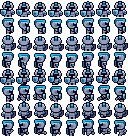
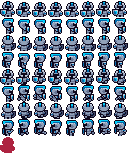
player can shoot

diff --git a/frontend/GAME/index.js b/frontend/GAME/index.js
@@ -38,6 +38,7 @@ const gameObjects = {
 };
 
 const bullets = [];
+const playerBullets = []; // Array separado para las balas del jugador
 
 // Clase base para todos los objetos del juego
 class GameObject {
@@ -250,7 +251,9 @@ const sources = {
     map: "img/Level Map.png",
     player: "img/PlayerChris.png",
     gameOver: "img/UI/GameOverScreen.png",
-    health: "img/playerLives.png"
+    health: "img/playerLives.png",
+    bullet: "img/bullet.png",
+    playerBullet: "img/playerBullet.png"
 };
 
 //----------------------------------------
@@ -495,6 +498,45 @@ function Update() {
             boundary.draw();
         });
 
+        // Actualizar y dibujar balas del jugador (fuera del bloque isPlayerInBattle)
+        for (let i = playerBullets.length - 1; i >= 0; i--) {
+            playerBullets[i].update();
+            
+            // Verificar colisiones con boundaries
+            let bulletHitBoundary = false;
+            
+            // Verificar colisiones con paredes normales
+            for (const boundary of gameObjects.boundaries) {
+                if (bulletCollision(playerBullets[i], boundary)) {
+                    bulletHitBoundary = true;
+                    break;
+                }
+            }
+            
+            // Verificar colisiones con puertas
+            if (!bulletHitBoundary && isPlayerInBattle) {
+                for (const door of gameObjects.doorBoundaries) {
+                    if (bulletCollision(playerBullets[i], door)) {
+                        bulletHitBoundary = true;
+                        break;
+                    }
+                }
+            }
+            
+            // Si la bala golpeó algo o está muy lejos, eliminarla
+            const distanceFromPlayer = Math.hypot(
+                playerBullets[i].x - playerX,
+                playerBullets[i].y - playerY
+            );
+            
+            if (bulletHitBoundary || distanceFromPlayer > 500) {
+                playerBullets.splice(i, 1);
+                continue;
+            }
+            
+            playerBullets[i].draw(ctx);
+        }
+
         // Solo dibujar las puertas y caballeros si el jugador está en batalla
         if (isPlayerInBattle) {
             gameObjects.doorBoundaries.forEach((doorBoundary) => {
@@ -507,14 +549,14 @@ function Update() {
                 knight.draw(ctx);
             });
             
-            // Actualizar y dibujar balas
+            // Actualizar y dibujar balas enemigas
             for (let i = bullets.length - 1; i >= 0; i--) {
                 bullets[i].update();
                 
                 // Verificar si la bala golpea al jugador
                 if (bulletHitPlayer(bullets[i])) {
                     playerHealth.takeDamage(1);
-                    playerDamageFrames = 2; // Activar frames de daño
+                    playerDamageFrames = 10; // Cambiar a 10 frames de daño
                     bullets.splice(i, 1);
                     continue;
                 }
@@ -562,16 +604,33 @@ function Update() {
         isMoving = false;
         if (keys.a && canMove.left) {
             isMoving = true;
-            lastDirection = 'left';
         } else if (keys.d && canMove.right) {
             isMoving = true;
-            lastDirection = 'right';
         } else if (keys.w && canMove.up) {
             isMoving = true;
-            lastDirection = 'up';
         } else if (keys.s && canMove.down) {
             isMoving = true;
-            lastDirection = 'down';
+        }
+
+        // Calcular la dirección basada en el mouse
+        if (!isGameOver) {
+            const dx = mouseX - playerX;
+            const dy = mouseY - playerY;
+            
+            // Calcular el ángulo entre el jugador y el mouse
+            const angle = Math.atan2(dy, dx);
+            const degrees = angle * (180 / Math.PI);
+            
+            // Determinar la dirección basada en el ángulo
+            if (degrees >= -45 && degrees < 45) {
+                lastMouseDirection = 'right';
+            } else if (degrees >= 45 && degrees < 135) {
+                lastMouseDirection = 'down';
+            } else if (degrees >= -135 && degrees < -45) {
+                lastMouseDirection = 'up';
+            } else {
+                lastMouseDirection = 'left';
+            }
         }
 
         // Actualizar frame counter y current frame
@@ -588,13 +647,12 @@ function Update() {
         // Determinar fila y columna del sprite
         let row, column;
         if (playerDamageFrames > 0) {
-            // Si está en frames de daño, usar la novena fila (índice 8)
             row = 8;
-            column = 1; // Frame estático
-            playerDamageFrames--; // Decrementar contador
+            column = 0;
+            playerDamageFrames--;
         } else {
-            // Animación normal
-            switch (lastDirection) {
+            // Usar la dirección del mouse en lugar de lastDirection
+            switch (lastMouseDirection) {
                 case 'left':
                     row = 6;
                     break;
@@ -898,10 +956,6 @@ class BlueKnight extends GameObject {
         // Añadir variables para el disparo
         this.shootTimer = 0; // Frames antes de poder disparar
         this.shootInterval = 70; // Disparar cada 26 frames
-        
-        // Cargar imagen de la bala
-        this.bulletImage = new Image();
-        this.bulletImage.src = 'img/bullet.png';
     }
     
     update() {
@@ -1064,17 +1118,16 @@ class BlueKnight extends GameObject {
         const enemyWorldX = this.x - background.position.x;
         const enemyWorldY = this.y - background.position.y;
         
-        // Calcular dirección hacia el jugador
         const dx = playerWorldX - enemyWorldX;
         const dy = playerWorldY - enemyWorldY;
         const angle = Math.atan2(dy, dx);
         
-        // Crear nueva bala
         bullets.push(new Bullet(
             this.x + this.width/2,
             this.y + this.height/2,
             angle,
-            this.bulletImage
+            gameImages.bullet,
+            'enemy'
         ));
     }
 }
@@ -1184,8 +1237,9 @@ function resetGame() {
         room.isActive = false;
     });
     
-    // Limpiar array de balas
+    // Limpiar arrays de balas
     bullets.length = 0;
+    playerBullets.length = 0;
     playerDamageFrames = 0;
 }
 
@@ -1201,6 +1255,7 @@ function moveAllObjects(dx, dy) {
     
     // Mover las balas con el mapa
     bullets.forEach(bullet => bullet.moveWithMap(dx, dy));
+    playerBullets.forEach(bullet => bullet.moveWithMap(dx, dy));
 }
 
 //----------------------------------------
@@ -1219,13 +1274,29 @@ function bulletCollision(bullet, boundary) {
 // CLASE BULLET
 //----------------------------------------
 class Bullet extends GameObject {
-    constructor(x, y, angle, image) {
+    // Configuraciones predeterminadas para diferentes tipos de balas
+    static BULLET_TYPES = {
+        enemy: {
+            speed: 1.5,
+            width: 10,
+            height: 6
+        },
+        player: {
+            speed: 4,  // Bala del jugador más rápida
+            width: 10,
+            height: 6
+        }
+    };
+
+    constructor(x, y, angle, image, type = 'enemy') {
         super(x, y);
-        this.speed = 1.5;
+        const config = Bullet.BULLET_TYPES[type];
+        this.speed = config.speed;
         this.angle = angle;
         this.image = image;
-        this.width = 10;
-        this.height = 6;
+        this.width = config.width;
+        this.height = config.height;
+        this.type = type;
         
         // Calcular velocidades basadas en el ángulo
         this.vx = Math.cos(angle) * this.speed;
@@ -1293,3 +1364,42 @@ function bulletHitPlayer(bullet) {
 
 // Al inicio del juego, guardar el tiempo original
 const ORIGINAL_TIME = timeBeforeRespawn;
+
+// Añadir cerca de las otras variables globales
+let mouseX = 0;
+let mouseY = 0;
+let lastMouseDirection = 'down'; // Dirección por defecto
+
+// Añadir después de los otros event listeners
+canvas.addEventListener('mousemove', (e) => {
+    // Obtener la posición real del mouse en el canvas considerando el zoom
+    const rect = canvas.getBoundingClientRect();
+    mouseX = (e.clientX - rect.left) / zoomLevel;
+    mouseY = (e.clientY - rect.top) / zoomLevel;
+});
+
+// Añadir después del event listener del mouse
+canvas.addEventListener('click', (e) => {
+    if (isGameOver) return;
+    
+    // Obtener la posición real del mouse en el canvas
+    const rect = canvas.getBoundingClientRect();
+    const clickX = (e.clientX - rect.left) / zoomLevel;
+    const clickY = (e.clientY - rect.top) / zoomLevel;
+    
+    // Calcular el ángulo entre el jugador y el click
+    const dx = clickX - playerX;
+    const dy = clickY - playerY;
+    const angle = Math.atan2(dy, dx);
+    
+    // Crear nueva bala desde el centro del jugador usando la imagen precargada
+    const bullet = new Bullet(
+        playerX + 9.5,
+        playerY + 10,
+        angle,
+        gameImages.playerBullet,
+        'player'
+    );
+    
+    playerBullets.push(bullet);
+});
